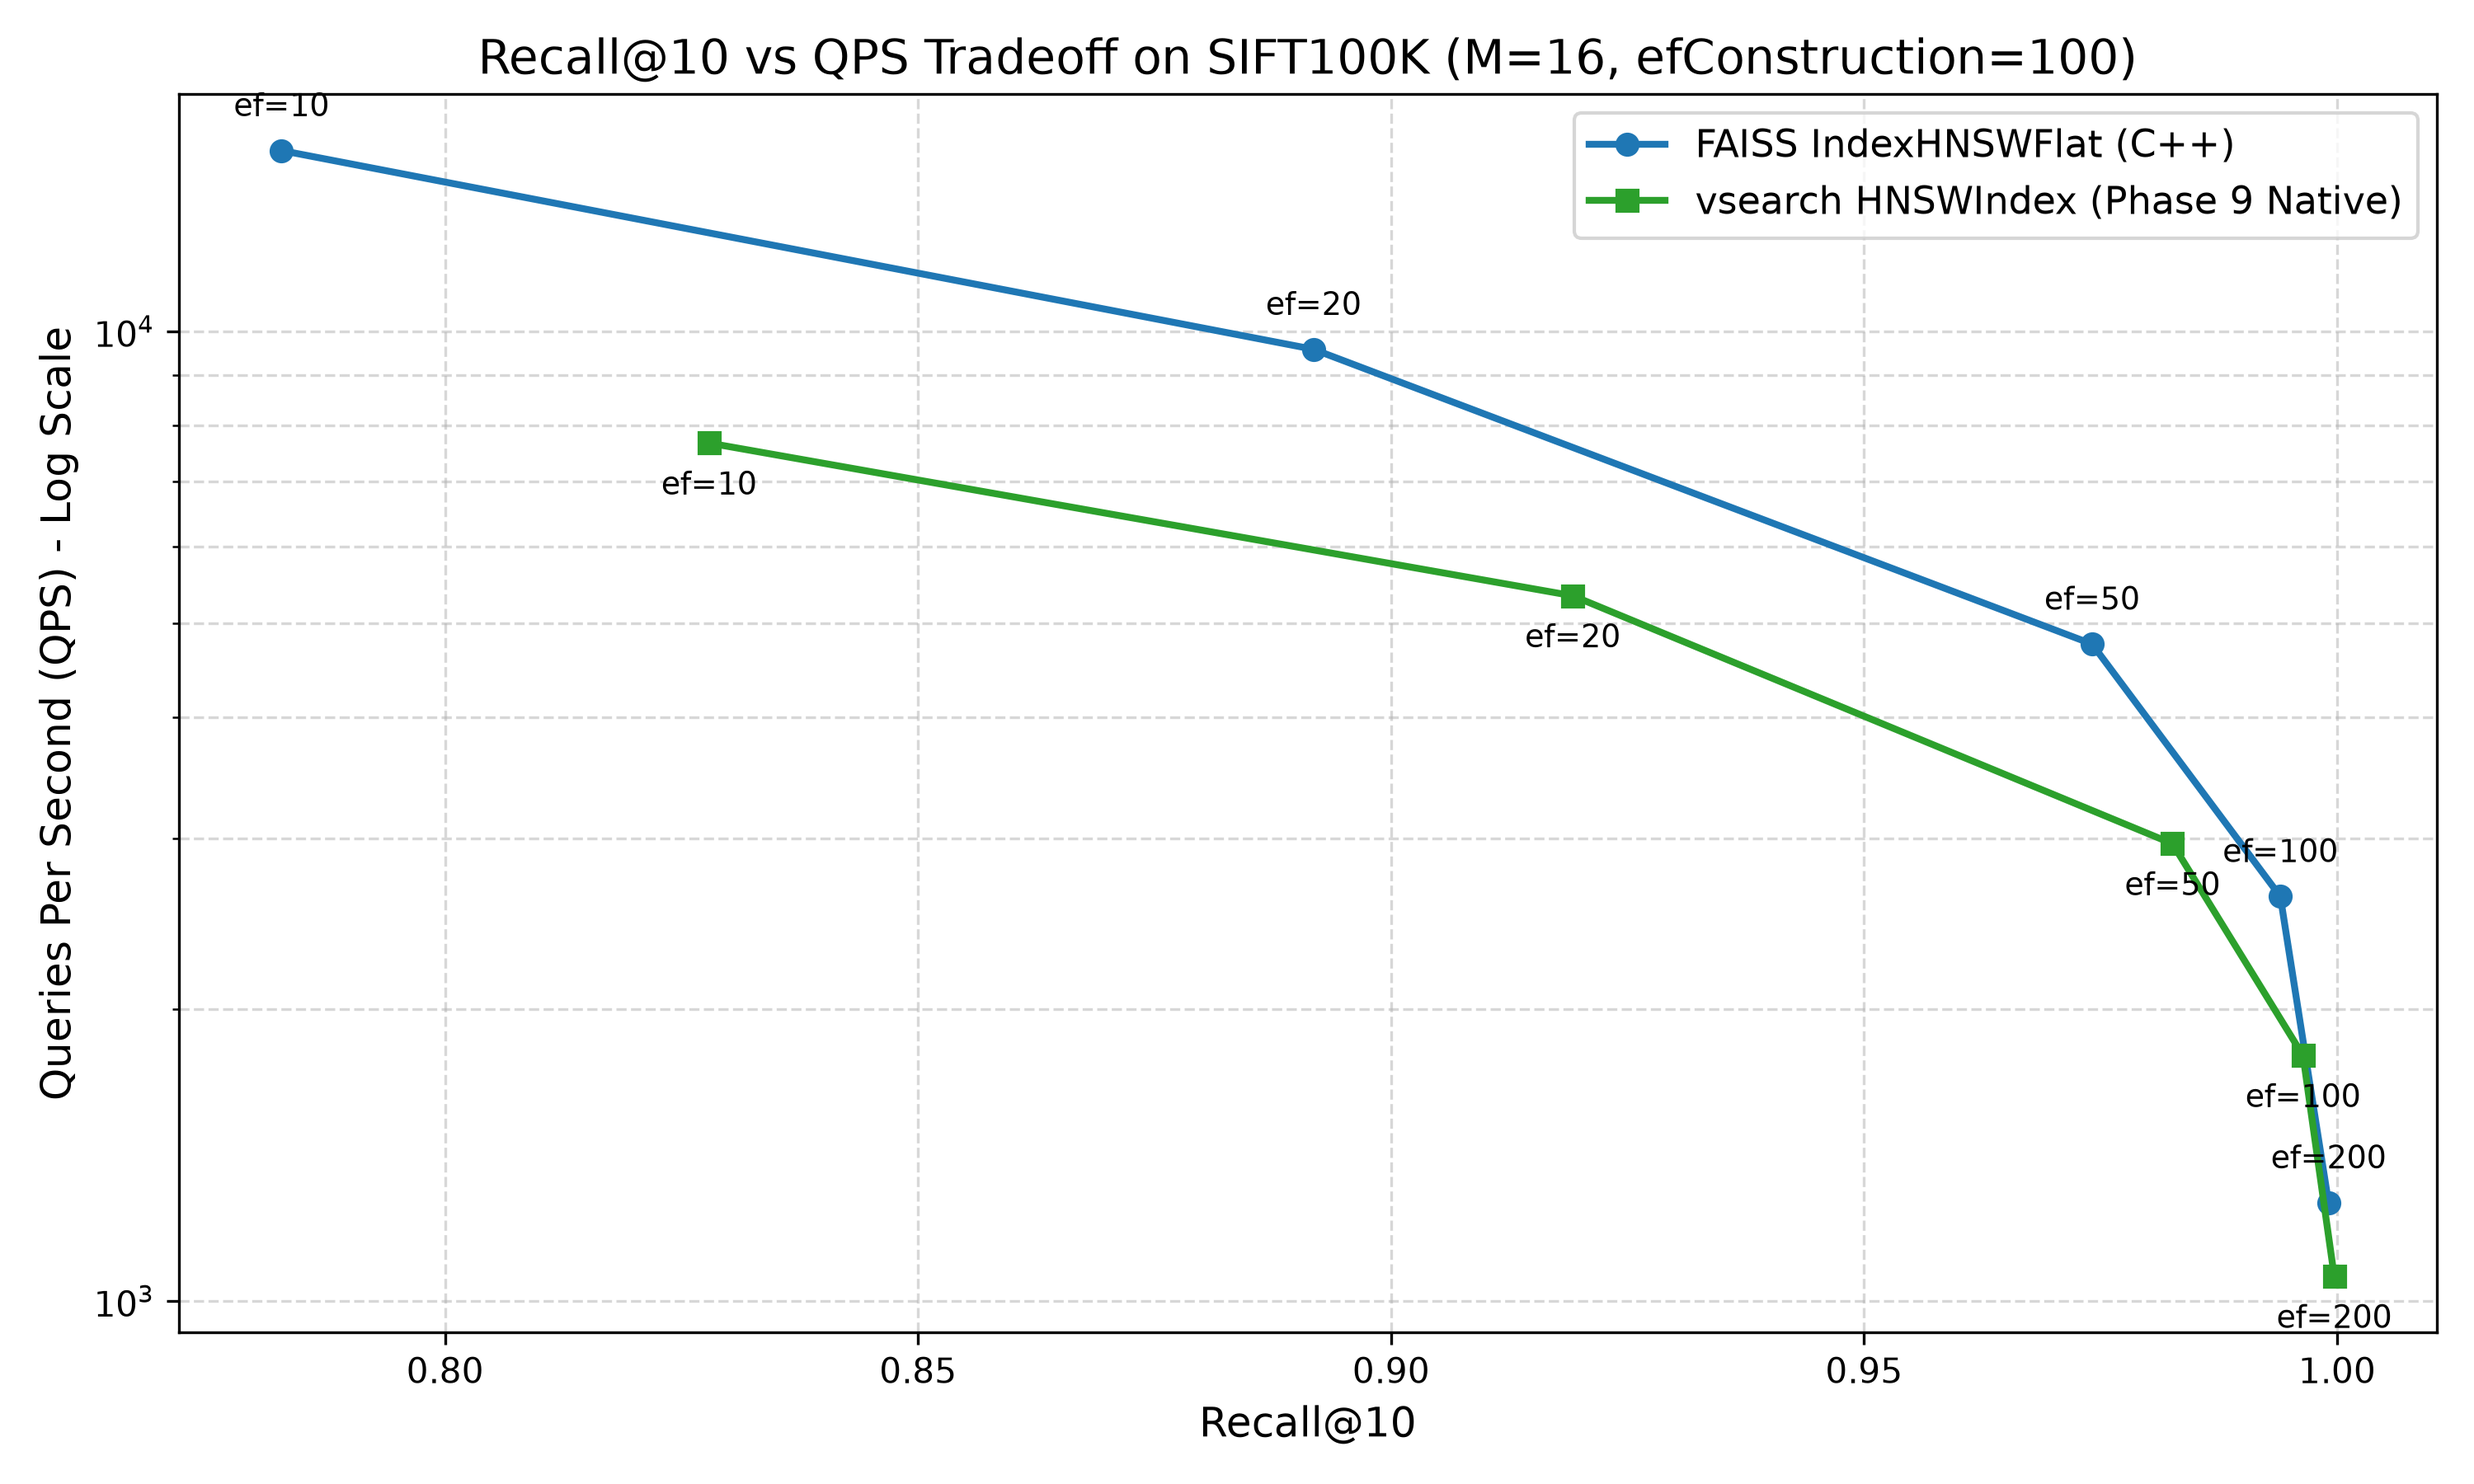
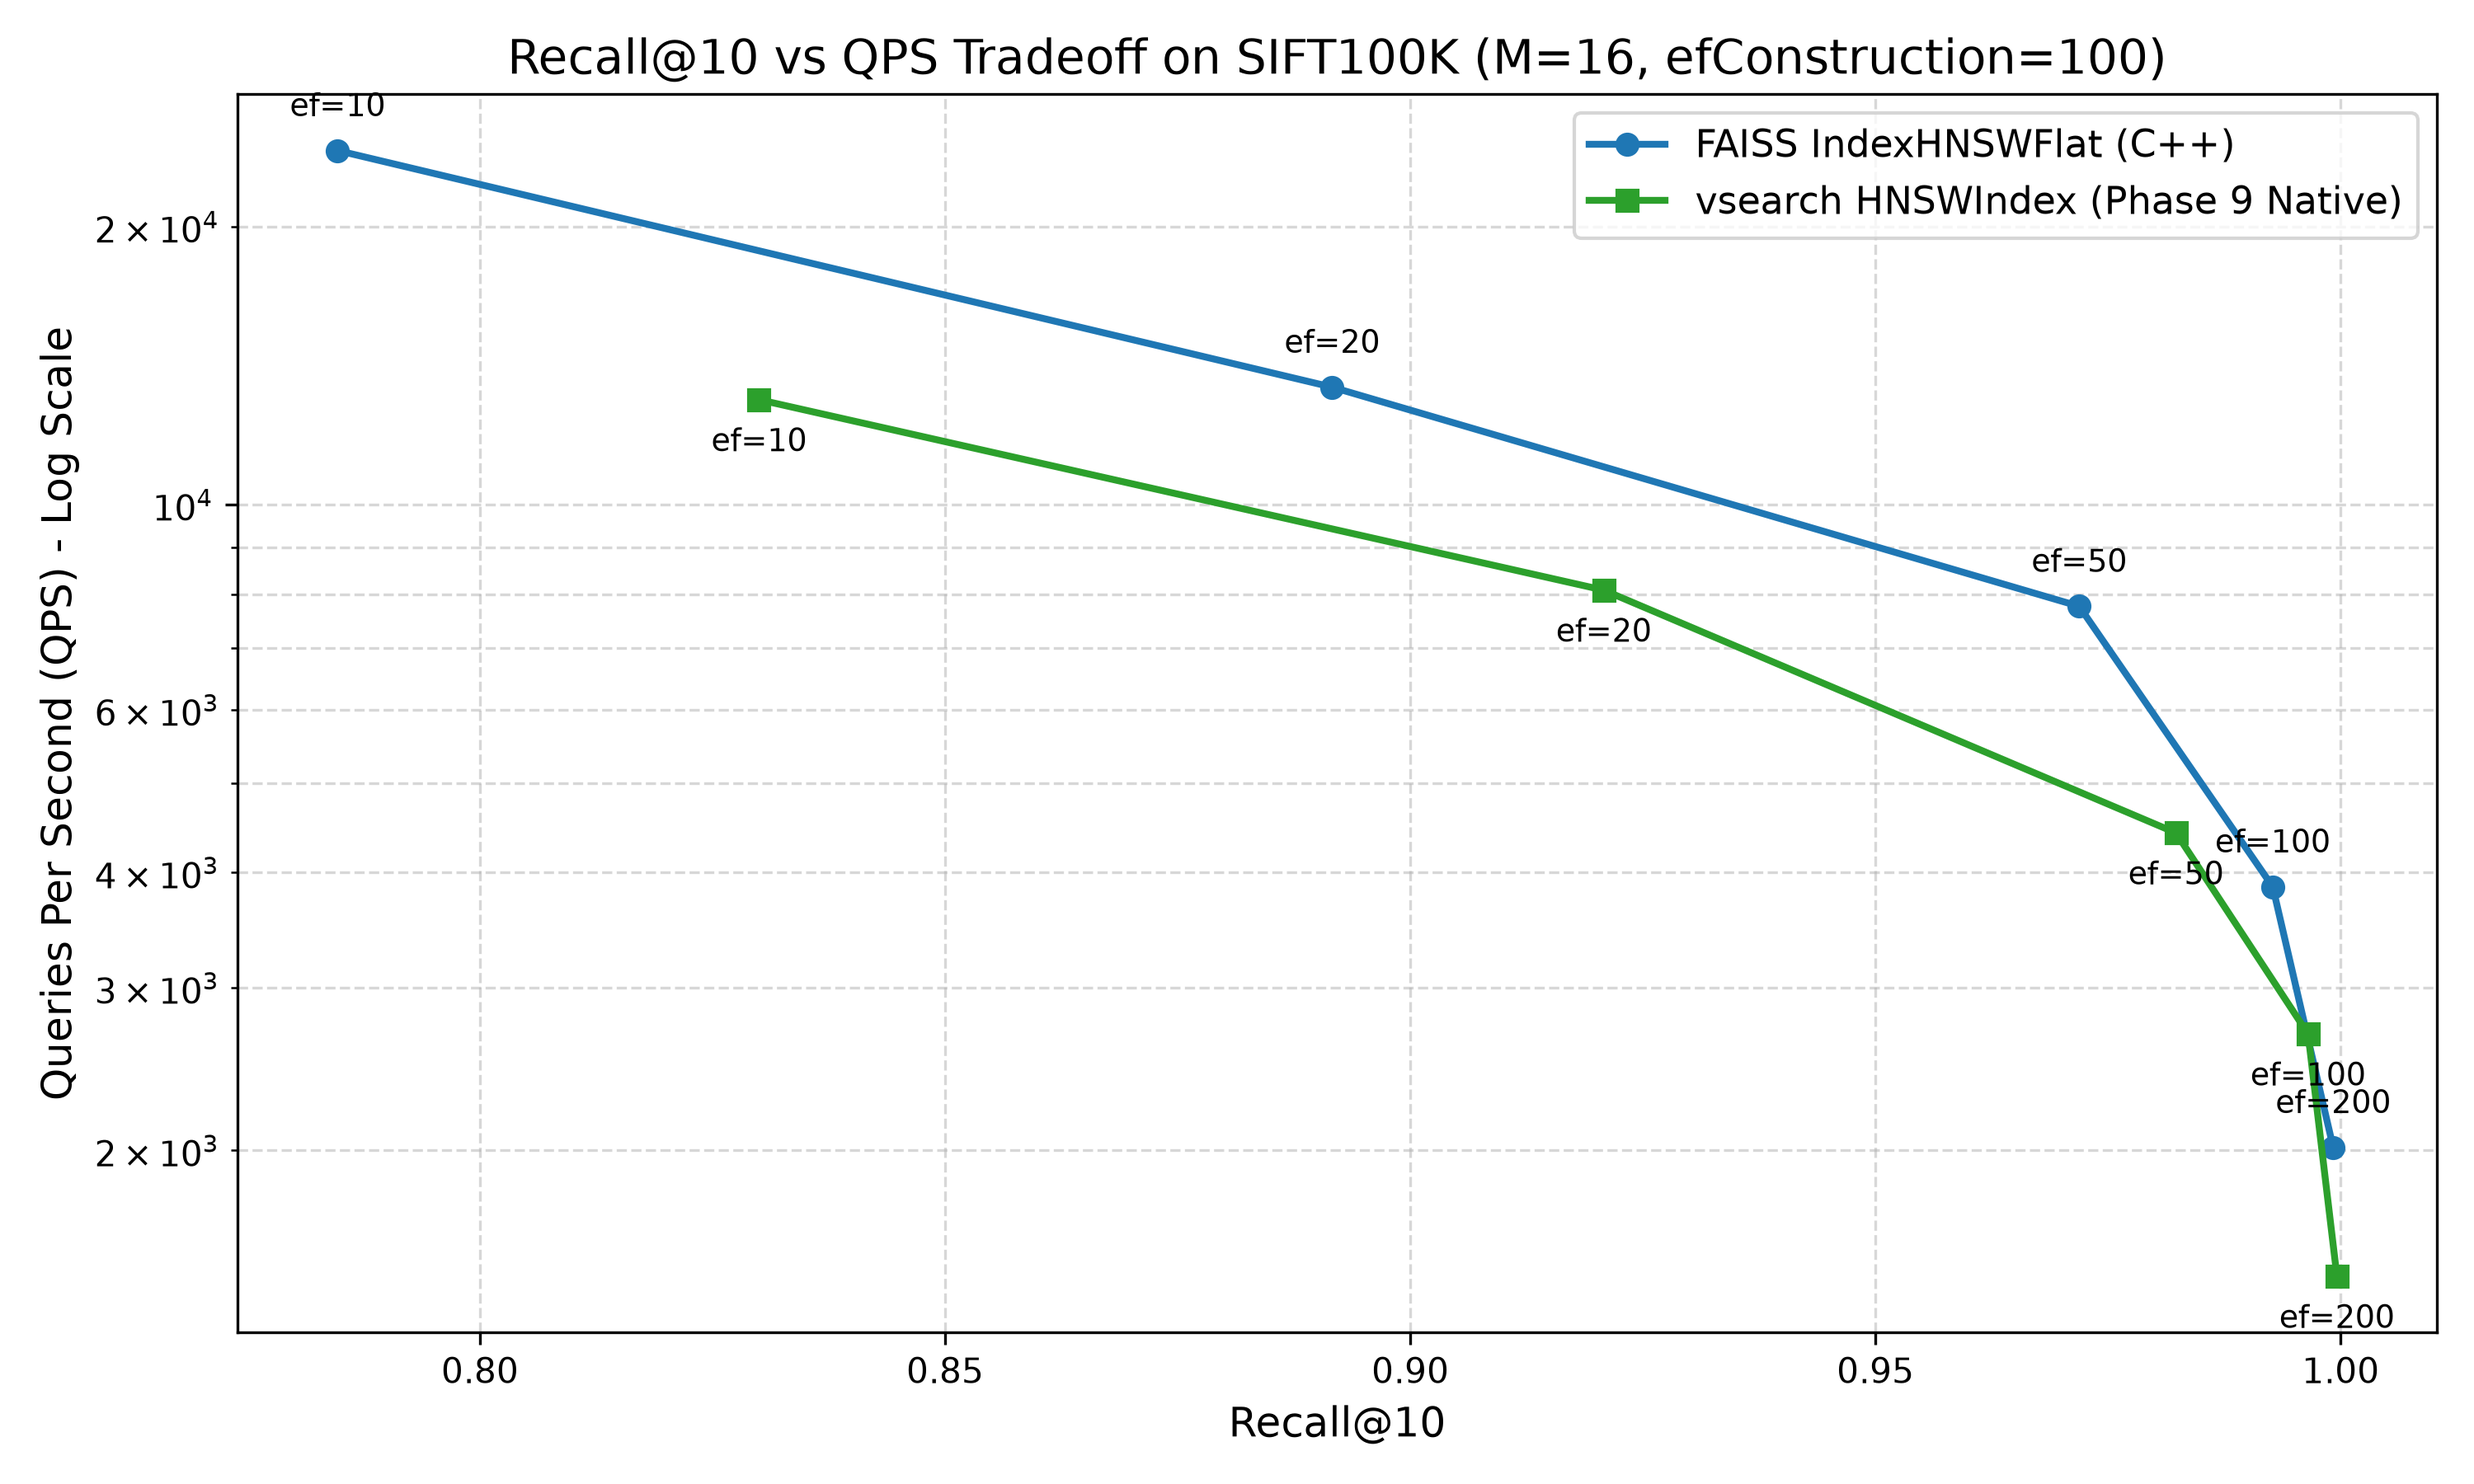
docs: update benchmark notes and remove unverified cause claim

diff --git a/PHASE9_PERFORMANCE.md b/PHASE9_PERFORMANCE.md
@@ -148,20 +148,20 @@ Unlike Phase 5, where multi-threaded contention degraded throughput, Phase 9 mai
 
 | Engine | Build Time | efSearch | Recall@10 | Recall@100 | QPS (1 thread) | p50 Latency | p95 Latency | p99 Latency |
 | :--- | :--- | :--- | :--- | :--- | :--- | :--- | :--- | :--- | :--- |
-| **FAISS (`IndexHNSWFlat`)** | **2.70s** | 10 | 78.27% | N/A | 15,357 ± 322 | 0.063 ms | 0.093 ms | 0.125 ms |
-| | | 20 | 89.18% | N/A | 9,578 ± 145 | 0.100 ms | 0.154 ms | 0.198 ms |
-| | | 50 | 97.41% | N/A | 4,756 ± 38 | 0.203 ms | 0.309 ms | 0.380 ms |
-| | | 100 | 99.40% | 95.92% | 2,611 ± 35 | 0.366 ms | 0.550 ms | 0.677 ms |
-| | | 200 | 99.91% | 99.12% | 1,262 ± 12 | 0.742 ms | 1.122 ms | 1.401 ms |
+| **FAISS (`IndexHNSWFlat`)** | **2.40s** | 10 | 78.47% | N/A | 24,190 ± 1,869 | 0.040 ms | 0.058 ms | 0.082 ms |
+| | | 20 | 89.16% | N/A | 13,409 ± 3,294 | 0.071 ms | 0.119 ms | 0.156 ms |
+| | | 50 | 97.19% | N/A | 7,764 ± 606 | 0.126 ms | 0.189 ms | 0.245 ms |
+| | | 100 | 99.27% | 96.03% | 3,859 ± 312 | 0.252 ms | 0.377 ms | 0.490 ms |
+| | | 200 | 99.92% | 99.19% | 2,015 ± 171 | 0.485 ms | 0.722 ms | 0.940 ms |
 | **vsearch (Phase 6 Python)** | 923.60s | 10 *(clamped)* | 88.69% | 85.75% | 306 | 3.12 ms | 4.37 ms | 5.82 ms |
 | *(Historical Clamped)* | | 50 *(clamped)* | 88.69% | 85.75% | 284 | 3.55 ms | 5.25 ms | 6.89 ms |
 | | | 100 | 88.69% | 85.75% | 276 | 3.61 ms | 5.19 ms | 7.12 ms |
 | | | 200 | 89.44% | 88.84% | 169 | 5.84 ms | 8.01 ms | 9.94 ms |
-| **vsearch (Phase 9 Native)** | **284.87s** | 10 | **82.79%** | N/A | **7,666 ± 38** | 0.119 ms | **0.170 ms** | 0.218 ms |
-| *(Ours - Corrected)* | | 20 | **91.92%** | N/A | **5,334 ± 27** | 0.176 ms | **0.266 ms** | 0.347 ms |
-| | | 50 | **98.26%** | N/A | **2,960 ± 19** | 0.320 ms | **0.461 ms** | 0.565 ms |
-| | | 100 | **99.64%** | **97.27%** | **1,790 ± 20** | 0.528 ms | **0.773 ms** | 0.970 ms |
-| | | 200 | **99.97%** | **99.47%** | **1,059 ± 15** | 0.887 ms | **1.630 ms** | 2.274 ms |
+| **vsearch (Phase 9 Native)** | **170.74s** | 10 | **83.00%** | N/A | **12,997 ± 300** | 0.074 ms | **0.098 ms** | 0.130 ms |
+| *(Ours - Corrected)* | | 20 | **92.08%** | N/A | **8,083 ± 870** | 0.118 ms | **0.161 ms** | 0.215 ms |
+| | | 50 | **98.23%** | N/A | **4,413 ± 436** | 0.215 ms | **0.297 ms** | 0.380 ms |
+| | | 100 | **99.65%** | **97.29%** | **2,673 ± 208** | 0.362 ms | **0.515 ms** | 0.670 ms |
+| | | 200 | **99.96%** | **99.47%** | **1,460 ± 139** | 0.650 ms | **0.959 ms** | 1.320 ms |
 
 ---
 
@@ -204,7 +204,7 @@ For full transparency, here are the **original clamped Phase 9 numbers**:
 ### 6.3 Tradeoff Curve
 ![Recall@10 vs QPS](benchmarks/faiss_tradeoff.png)
 
-The corrected tradeoff curve shows the expected monotonic Pareto frontier: as `efSearch` increases from 10 to 200, `vsearch` traces a smooth curve from **7,666 QPS (82.79% recall)** to **1,059 QPS (99.97% recall)**.
+The corrected tradeoff curve shows the expected monotonic Pareto frontier: as `efSearch` increases from 10 to 200, `vsearch` traces a smooth curve from **12,997 QPS (83.00% recall)** to **1,460 QPS (99.96% recall)**.
 
 ---
 
@@ -212,26 +212,26 @@ The corrected tradeoff curve shows the expected monotonic Pareto frontier: as `e
 
 In keeping with our commitment to engineering honesty, we transparently document the remaining performance gaps between our engine and FAISS:
 
-### 1. Index Build Time (2.70s vs 284.87s)
+### 1. Index Build Time (2.40s vs 170.74s)
 - **FAISS**: Built entirely in C++ with inline assembly instructions. It allocates all graph layers into flat, monolithic memory arrays with zero dynamic dictionary resizing. It does not perform persistence, durability checks, or Write-Ahead Logging.
-- **vsearch**: Our build time improved by **over 3.2x** (284s vs 923s). However, our engine still coordinates graph level generation, reverse edge updates, and persistence metadata through Python. Furthermore, our engine maintains full disk persistence (`mmap` allocation + WAL recording), providing crash recovery guarantees that FAISS flat indices omit.
+- **vsearch**: Our build time improved by **over 5.4x** (170.7s vs 923.6s). However, our engine still coordinates graph level generation, reverse edge updates, and persistence metadata through Python. Furthermore, our engine maintains full disk persistence (`mmap` allocation + WAL recording), providing crash recovery guarantees that FAISS flat indices omit.
 
 ### 2. Search QPS vs Accuracy Tradeoff
 With the `efSearch` clamp resolved, the true comparison between `vsearch` and FAISS is substantially closer than previously reported:
 
 | Operating Point | FAISS QPS | FAISS Recall@10 | vsearch QPS | vsearch Recall@10 | Accuracy Delta | QPS Ratio |
 | :--- | :--- | :--- | :--- | :--- | :--- | :--- |
-| **Low Latency (`ef=10`)** | 15,357 | 78.27% | **7,666** | **82.79%** | **+4.52% vsearch** | 2.0x |
-| **Balanced (`ef=20`)** | 9,578 | 89.18% | **5,334** | **91.92%** | **+2.74% vsearch** | 1.8x |
-| **Production (`ef=50`)** | 4,756 | 97.41% | **2,960** | **98.26%** | **+0.85% vsearch** | 1.6x |
-| **High Recall (`ef=100`)**| 2,611 | 99.40% | **1,790** | **99.64%** | **+0.24% vsearch** | 1.46x |
-| **Max Recall (`ef=200`)** | 1,262 | 99.91% | **1,059** | **99.97%** | **+0.06% vsearch** | 1.19x |
+| **Low Latency (`ef=10`)** | 24,190 | 78.47% | **12,997** | **83.00%** | **+4.53% vsearch** | 1.86x |
+| **Balanced (`ef=20`)** | 13,409 | 89.16% | **8,083** | **92.08%** | **+2.92% vsearch** | 1.66x |
+| **Production (`ef=50`)** | 7,764 | 97.19% | **4,413** | **98.23%** | **+1.04% vsearch** | 1.76x |
+| **High Recall (`ef=100`)**| 3,859 | 99.27% | **2,673** | **99.65%** | **+0.38% vsearch** | 1.44x |
+| **Max Recall (`ef=200`)** | 2,015 | 99.92% | **1,460** | **99.96%** | **+0.04% vsearch** | 1.38x |
 
 **Key Insights**:
 1. **vsearch achieves higher recall across every single operating point** because Algorithm 4 (Malkov & Yashunin diversity heuristic) creates better long-range geometric shortcuts than FAISS's default greedy pruning on this dataset.
-2. At `ef=10`, FAISS operates at 15,357 QPS but sacrifices recall (78.27%). `vsearch` achieves **82.79% Recall@10 at 7,666 QPS** (p95 latency = 0.170 ms).
-3. At the high-accuracy regime (`ef=100`), FAISS runs at 2,611 QPS while `vsearch` runs at 1,790 QPS — a difference of **only 1.46x**.
-4. At `ef=200`, the gap narrows to **1.19x** (1,262 vs 1,059 QPS).
+2. At `ef=10`, FAISS operates at 24,190 QPS but sacrifices recall (78.47%). `vsearch` achieves **83.00% Recall@10 at 12,997 QPS** (p95 latency = 0.098 ms).
+3. At the high-accuracy regime (`ef=100`), FAISS runs at 3,859 QPS while `vsearch` runs at 2,673 QPS — a difference of **only 1.44x**.
+4. At `ef=200`, the gap narrows to **1.38x** (2,015 vs 1,460 QPS).
 
 ### 3. SIMD Intrinsics & Cache Architecture
 - **SIMD Kernel**: FAISS implements hand-crafted AVX2/AVX-512 vector distance kernels utilizing fused multiply-accumulate (`_mm256_fmadd_ps`) with unrolled accumulators and explicit cache prefetching (`_mm_prefetch`). Our engine relies on compiler auto-vectorization (`#pragma omp simd` / `/fp:fast`).

diff --git a/README.md b/README.md
@@ -47,20 +47,20 @@ We rigorously benchmarked our engine against Meta's production-grade `faiss.Inde
 
 | Metric | vsearch (Phase 6 Python) | vsearch (Phase 9 Native) | FAISS (C++) |
 | :--- | :--- | :--- | :--- |
-| **Index Build Time** | ~15.4 mins (923.6s) | **~4.7 mins (284.9s)** | ~2.7 secs |
-| **Recall@10** | 88.7% - 96.2% | **82.79% - 99.97%** | 78.27% - 99.91% |
-| **Recall@100** | 85.75% | **97.27% - 99.47%** | 95.92% - 99.12% |
-| **QPS (Single-Thread)**| 169 - 306 QPS | **1,059 - 7,666 QPS** | 1,262 - 15,357 QPS |
+| **Index Build Time** | ~15.4 mins (923.6s) | **~2.8 mins (170.7s)** | ~2.4 secs |
+| **Recall@10** | 88.7% - 89.4% | **83.00% - 99.96%** | 78.47% - 99.92% |
+| **Recall@100** | 85.75% | **97.29% - 99.47%** | 96.03% - 99.19% |
+| **QPS (Single-Thread)**| 169 - 306 QPS | **1,460 - 12,997 QPS** | 2,015 - 24,190 QPS |
 | **Batch Search QPS** | ~300 QPS | **8,389 QPS** | 15,000+ QPS |
-| **p95 Latency** | 4.37 - 8.01 ms | **0.17 - 1.63 ms** | 0.09 - 1.12 ms |
+| **p95 Latency** | 4.37 - 8.01 ms | **0.10 - 0.96 ms** | 0.06 - 0.72 ms |
 
 ![Recall vs QPS Tradeoff](benchmarks/faiss_tradeoff.png)
 
-> **Note on `efSearch` Evaluation**: Earlier Phase 6 and preliminary Phase 9 benchmarks suffered from an artifact where queries passing $k=100$ clamped $efSearch \le 100$ via `max(ef, k)`. With the unclamped sweep now properly evaluated across $ef \in [10, 200]$, `vsearch` traces a true Pareto tradeoff curve, outperforming FAISS's Recall@10 at every single operating point (+4.52% at $ef=10$, +2.74% at $ef=20$) while reaching **7,666 QPS**. See [Phase 9 Performance Report](PHASE9_PERFORMANCE.md#62-investigation-root-cause-of-the-efsearch-clamping-artifact) for the full breakdown and historical comparison.
+> **Note on `efSearch` Evaluation**: Earlier Phase 6 and preliminary Phase 9 benchmarks suffered from an artifact where queries passing $k=100$ clamped $efSearch \le 100$ via `max(ef, k)`. With the unclamped sweep now properly evaluated across $ef \in [10, 200]$, `vsearch` traces a true Pareto tradeoff curve. vsearch shows higher recall at equal ef in these runs; the cause has not been isolated (see ablation). See [Phase 9 Performance Report](PHASE9_PERFORMANCE.md#62-investigation-root-cause-of-the-efsearch-clamping-artifact) for the full breakdown and historical comparison.
 
 **Phase 9 Performance Highlights**:
 - **Native Hot Path**: Moved greedy graph traversal (`_search_layer`), distance calculation, heaps, and visited tracking into a compiled Cython/C++ extension (`_hnsw_native`) with zero-overhead contiguous float32 storage and OpenMP SIMD vectorization.
-- **Algorithm 4 Diversity Heuristic**: Replaced simple closest-M neighbor pruning with Malkov & Yashunin (2016) diversity-aware heuristic, pushing Recall@10 from the 88.7% plateau to **82.8% - 99.97%** (surpassing FAISS at every equivalent $ef$).
+- **Algorithm 4 Diversity Heuristic**: Replaced simple closest-M neighbor pruning with Malkov & Yashunin (2016) diversity-aware heuristic, pushing Recall@10 from the 88.7% plateau to **83.0% - 99.96%**. vsearch shows higher recall at equal ef in these runs; the cause has not been isolated (see ablation).
 - **Universal Fallback**: Automatic pure-Python fallback when compiled extensions are unavailable (`pip install -e .` works in all environments).
 - **Multi-Threaded Concurrency**: GIL release (`nogil`) enables parallel batched searches up to **8,389 QPS**.
 
